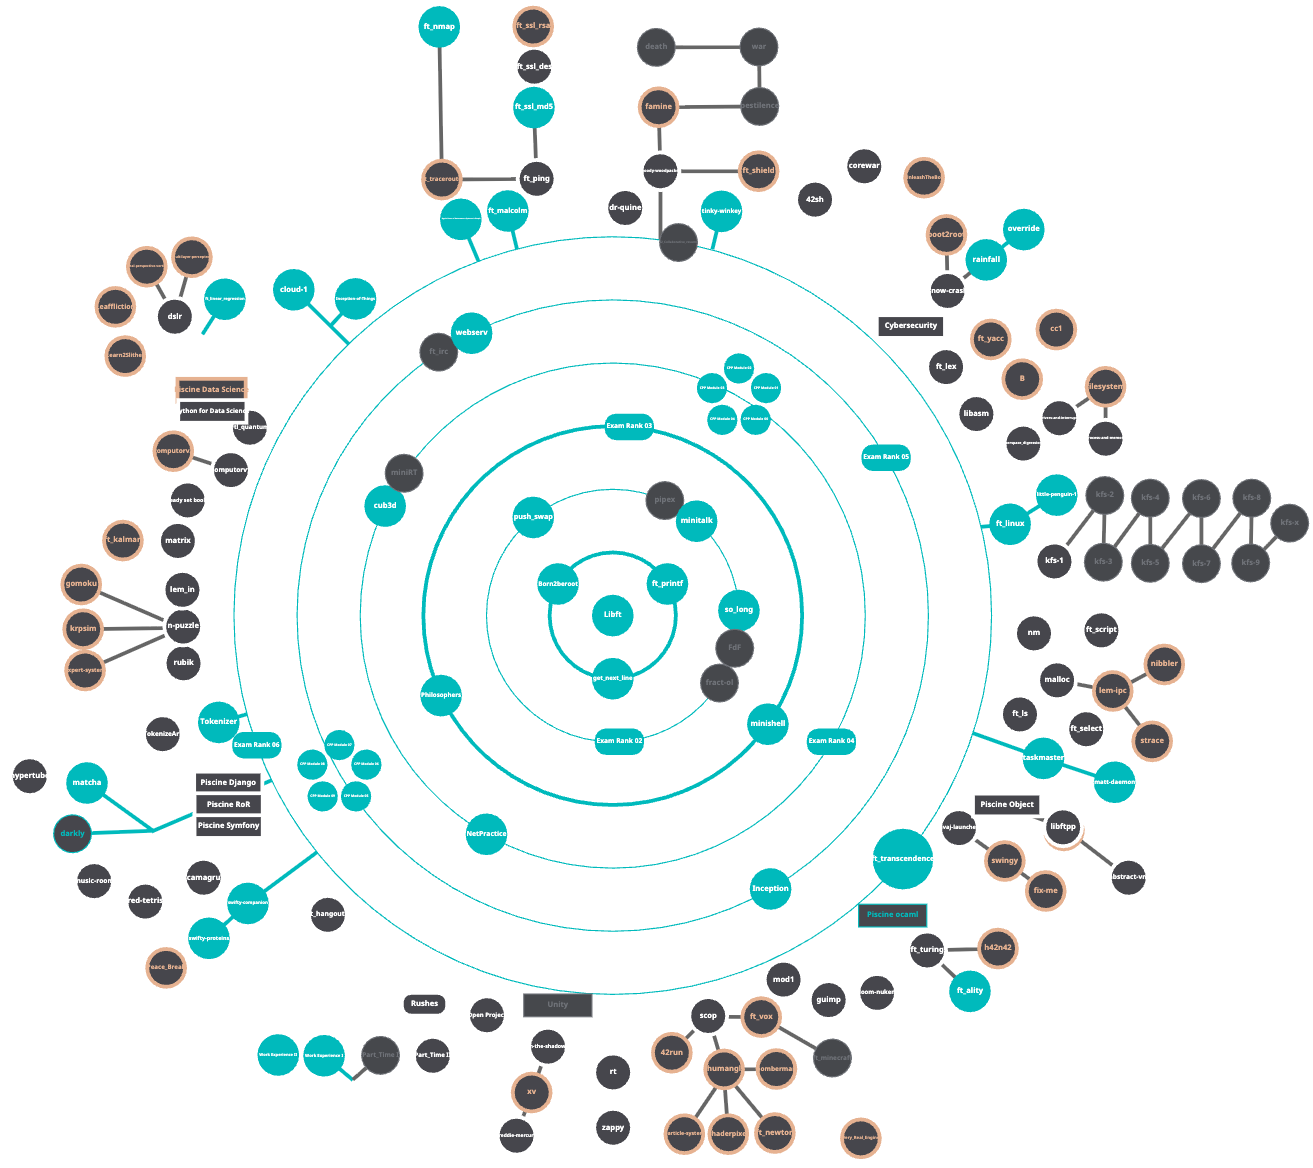
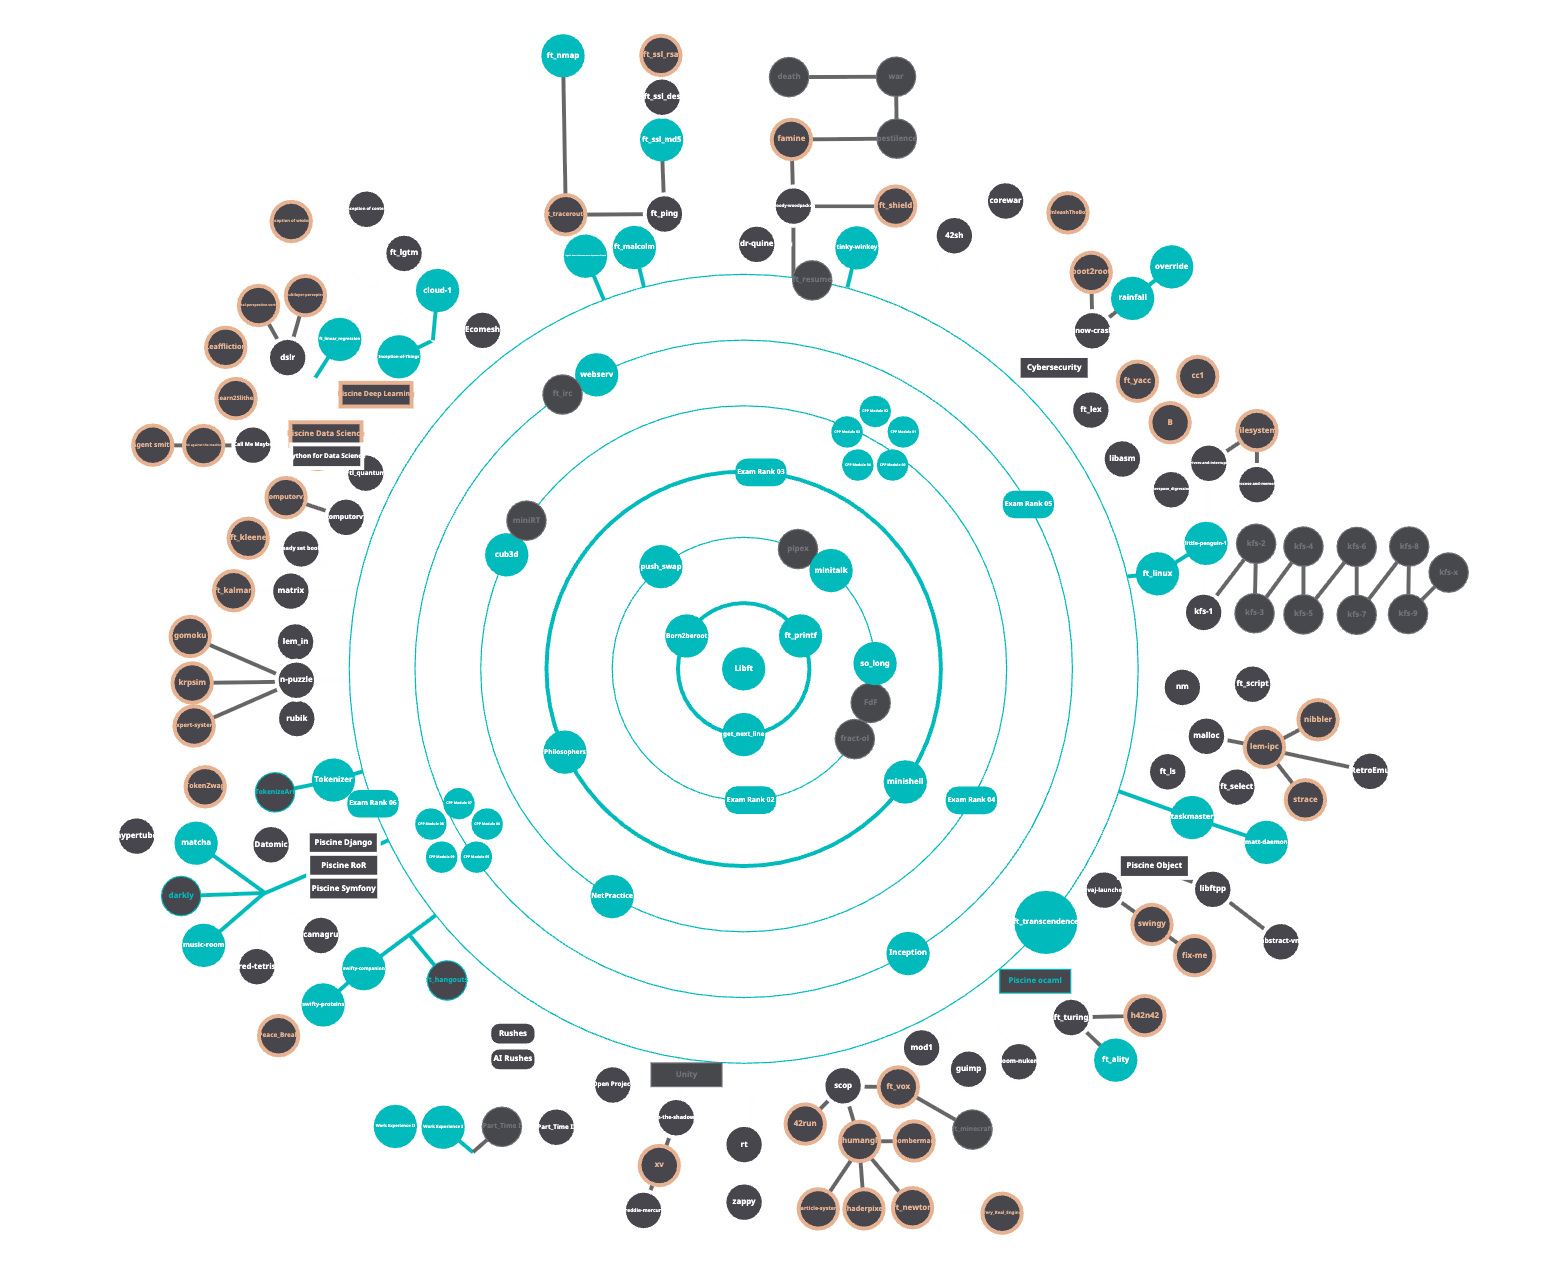
added music-room update grades for ft_hangouts, tokenizeart

diff --git a/README.md b/README.md
@@ -27,7 +27,10 @@
 <img src="_git_utils/115.png" alt="grade" style="width: 19%;"></a>
 
 <a href="https://github.com/aceyzz/ft_hangouts"><img src="_git_utils/ft_hangouts.png" alt="ft_hangouts project logo" style="width: 80%;">
-<img src="_git_utils/dots.png" alt="grade" style="width: 19%;"></a>
+<img src="_git_utils/125.png" alt="grade" style="width: 19%;"></a>
+
+<a href="https://github.com/Echo24h/Music-Room"><img src="_git_utils/music-room.png" alt="music-room project logo" style="width: 80%;">
+<img src="_git_utils/120.png" alt="grade" style="width: 19%;"></a>
 
 ---
 
@@ -44,7 +47,7 @@
 <img src="_git_utils/100.png" alt="grade" style="width: 19%;"></a>
 
 <a href="https://github.com/aceyzz/tokenizeart"><img src="_git_utils/tokenizeart.png" alt="tokenizeart project logo" style="width: 80%;">
-<img src="_git_utils/dots.png" alt="grade" style="width: 19%;"></a>
+<img src="_git_utils/105.png" alt="grade" style="width: 19%;"></a>
 
 ---
 
